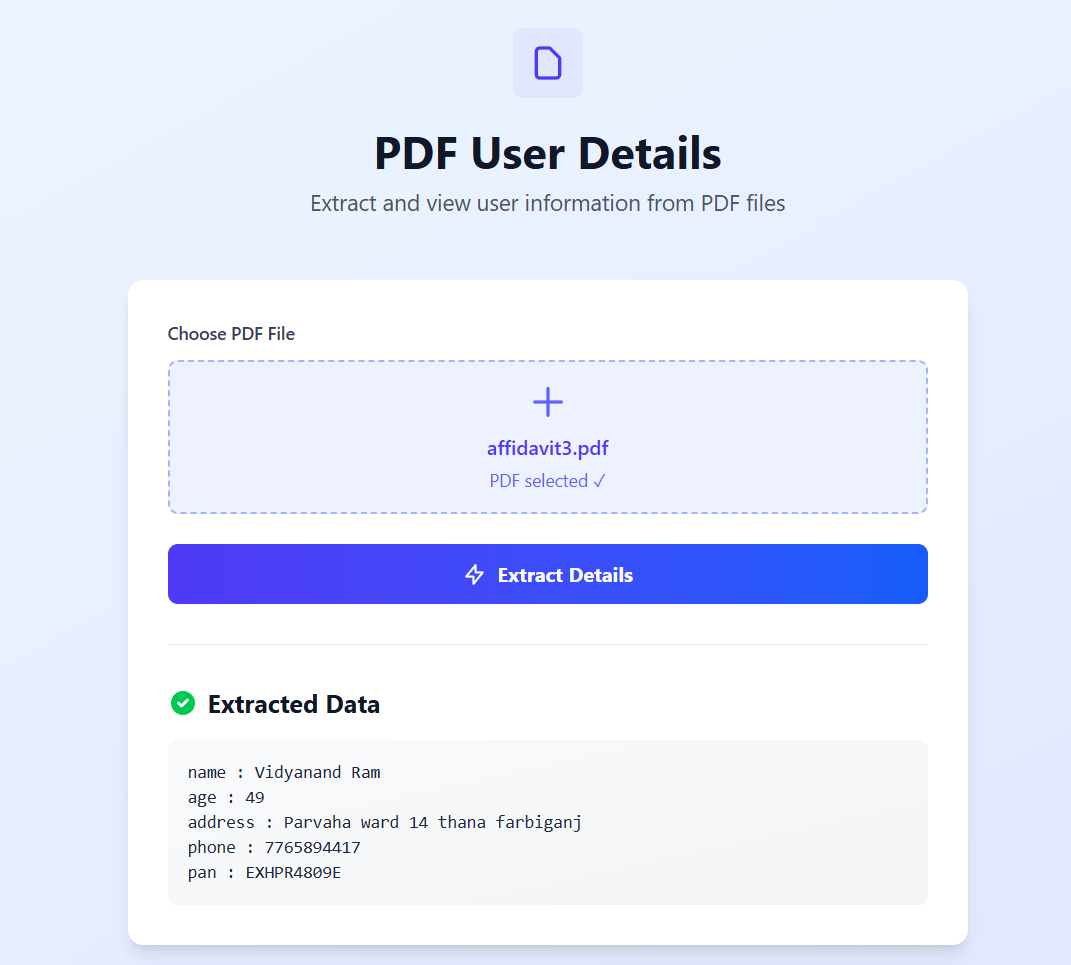
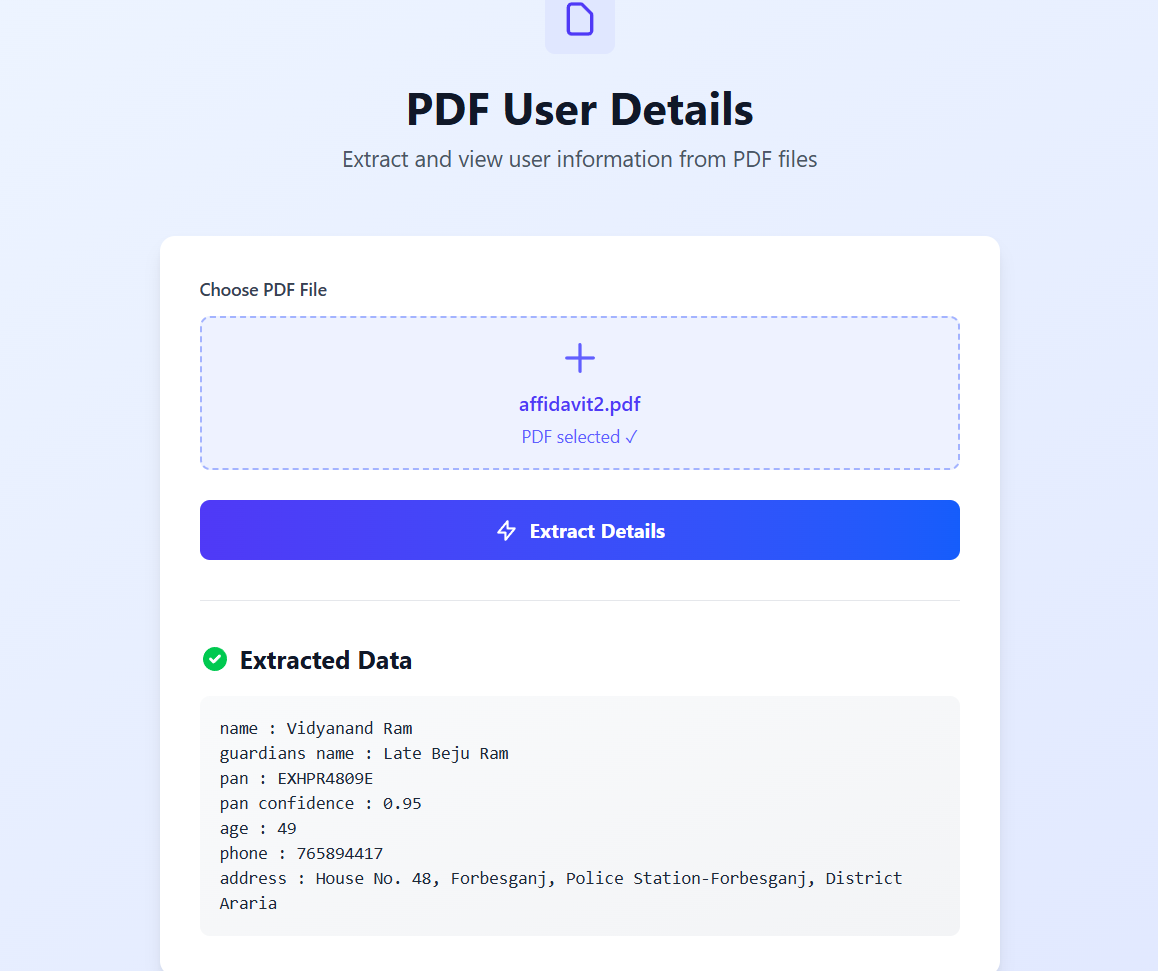
Added more details of the user in the output and DB

Changed region(s): [[0.0924, 0.2798, 0.9244, 1.0], [0.2773, 0.0, 0.7395, 0.2176], [0.493, 0.342, 0.5238, 0.3731]]

diff --git a/frontend/src/App.jsx b/frontend/src/App.jsx
@@ -4,7 +4,7 @@ function App() {
   const [file, setFile] = useState(null);
   const [data, setData] = useState(null);
   const [loading, setLoading] = useState(false);
-  const displayOrder = ["name", "age", "address", "phone", "pan"];
+  const displayOrder = ["name", "guardians_name", "pan", "pan_confidence", "age", "phone", "address"];
 
   const uploadPdf = async () => {
     if (!file) return alert("Upload a PDF");

diff --git a/backend/functions.py b/backend/functions.py
@@ -97,13 +97,15 @@ def get_user_details(pages, page_index):
     Extract ONLY the following user details if present:
     1. Full Name
     3. Address (full)
-    4. Phone Number (if mentioned)
+    4. Father's / Spouse Name
+    5. Phone Number (if mentioned)
     6. Age (if mentioned)
     
     Convert the details from hindi to english if they are in hindi.
     Return STRICT JSON only:
     {
       "name": "...",
+      "guardians_name": "...",
       "age": "...",
       "address": "...",
       "phone": "..."
@@ -128,16 +130,39 @@ def get_pan_number_details(pages, pan_page_index, user_data):
     pan_page_image = pages[pan_page_index]
 
     pan_prompt = """
-    This is a PAN-related page from an Indian affidavit.
+    You are given an image of an Indian affidavit document that may contain a PAN card.
 
-    Extract ONLY the PAN card number.
-    PAN format: AAAAA9999A
+    Your task is to extract:
+    1. The PAN card number
+    2. A confidence score for the extracted PAN
 
-    Rules:
-    - PAN is usually below headings like:
-      "पीएएन", "स्थायी लेखा", "स्थायी लेखा संख्या"
-    - Return ONLY the PAN string
-    - If not visible, return null
+    PAN Format:
+    - Exactly 10 characters
+    - Pattern: AAAAA9999A (5 uppercase letters, 4 digits, 1 uppercase letter)
+
+    Extraction Rules:
+    - Look for PAN under or near headings such as:
+      "पीएएन", "स्थायी लेखा", "स्थायी लेखा संख्या", "Permanent Account Number", "PAN"
+    - Extract ONLY the PAN number visible in the image
+    - Do NOT guess or infer missing characters
+    - If a valid PAN is not clearly visible, return null for the PAN
+
+    Output Format (STRICT):
+    Return ONLY a valid JSON object in the following format:
+
+    {
+      "pan": "FAIPS5217L",
+      "confidence_score": 0.92
+    }
+
+    Confidence Score Guidelines:
+    - Value must be between 0 and 1
+    - High confidence (0.85–1.0): PAN is clearly readable and fully visible
+    - Medium confidence (0.6–0.84): PAN is visible but slightly unclear
+    - Low confidence (0.3–0.59): PAN is partially visible or noisy
+    - If PAN is null, confidence_score must be 0.0
+
+    Do NOT include any explanation or additional text.
     """
 
     logger.info("Extracting PAN from PAN page...")
@@ -148,25 +173,35 @@ def get_pan_number_details(pages, pan_page_index, user_data):
         return user_data
     logger.info("PAN Raw Result:")
     logger.info(pan_response.text)
-    chq_pan_number(pan_response.text, user_data)
+    pan_result = safe_parse_json(pan_response.text)
+    chq_pan_number(pan_result, user_data)
     return user_data
     
     
-def chq_pan_number(pan_number, user_data):
-    pan_text = re.sub(r"```json|```", "", pan_number, flags=re.IGNORECASE).strip()
+def chq_pan_number(pan_details: dict, user_data: dict):
+    if not isinstance(pan_details, dict):
+        user_data["pan"] = None
+        user_data["pan_confidence"] = 0.0
+        return
 
-    if pan_text.lower() == "null":
+    pan_text = str(pan_details.get("pan", "")).strip()
+    
+    try:
+        confidence = float(pan_details.get("confidence_score", 0.0))
+    except (ValueError, TypeError):
+        confidence = 0.0
+
+    if not pan_text or pan_text.lower() == "null":
         pan_value = None
     else:
-        pan_value = pan_text.strip('"').strip()
+        pan_value = pan_text.strip('"').upper()
 
-    def is_valid_pan(pan):
-        return bool(re.fullmatch(r"[A-Z]{5}[0-9]{4}[A-Z]", pan or ""))
-
-    if not is_valid_pan(pan_value):
+    if not re.fullmatch(r"[A-Z]{5}[0-9]{4}[A-Z]", pan_value or ""):
         pan_value = None
+        confidence = 0.0
 
     user_data["pan"] = pan_value
+    user_data["pan_confidence"] = confidence
 
 
 

diff --git a/backend/app.py b/backend/app.py
@@ -35,6 +35,8 @@ def init_db():
             age INT,
             phone VARCHAR(20),
             pan VARCHAR(20),
+            pan_confidence FLOAT,
+            guardians_name VARCHAR(255),
             address TEXT,
             created_at TIMESTAMP DEFAULT CURRENT_TIMESTAMP
         )
@@ -63,16 +65,18 @@ def extract():
         db = get_db()
         cursor = db.cursor()
         query = """
-            INSERT INTO extracted_data (name, age, phone, pan, address)
-            VALUES (%s, %s, %s, %s, %s)
+            INSERT INTO extracted_data (name, age, phone, pan, pan_confidence, guardians_name, address)
+            VALUES (%s, %s, %s, %s, %s, %s, %s)
             """
 
         values = (
-            data["name"],
-            data["age"],
-            str(data["phone"]),
-            data["pan"],
-            data["address"]
+            data.get("name"),
+            data.get("age"),
+            str(data["phone"]) if data.get("phone") else None,
+            data.get("pan"),
+            float(data.get("pan_confidence", 0.0)),
+            data.get("guardians_name"),
+            data.get("address")
         )
 
         try:

diff --git a/backend/readme.md b/backend/readme.md
@@ -142,13 +142,15 @@ http://localhost:8000
 ### Table: `extracted_data`
 
 ```
-id          INT (PK, auto increment)
-name        VARCHAR(255)
-age         INT
-phone       VARCHAR(20)
-pan         VARCHAR(20)
-address     TEXT
-created_at  TIMESTAMP (auto-generated)
+id               INT (PK, auto increment)
+name             VARCHAR(255)
+age              INT
+phone            VARCHAR(20)
+pan              VARCHAR(20)
+pan_confidence   FLOAT
+guardians_name   VARCHAR(255)
+address          TEXT
+created_at       TIMESTAMP (auto-generated)
 ```
 
 No manual SQL execution required.
@@ -205,11 +207,13 @@ Example response:
 
 ```
 {
-  "name": "Rajeev Ranjan",
-  "age": 26,
-  "phone": "73197029",
-  "pan": "CHCPR9394A",
-  "address": "ग्राम पोस्ट करमा..."
+  "name": "Vidyanand Ram",
+  "age": 49,
+  "phone": "7765894417",
+  "pan": "EXHPR4809E",
+  "pan_confidence": 9.5,
+  "guardians_name": "Late Beju Ram
+  "address": "House No. 48, Forbesganj, Police St.."
 }
 ```
 

diff --git a/frontend/README.md b/frontend/README.md
@@ -142,13 +142,15 @@ http://localhost:8000
 ### Table: `extracted_data`
 
 ```
-id          INT (PK, auto increment)
-name        VARCHAR(255)
-age         INT
-phone       VARCHAR(20)
-pan         VARCHAR(20)
-address     TEXT
-created_at  TIMESTAMP (auto-generated)
+id               INT (PK, auto increment)
+name             VARCHAR(255)
+age              INT
+phone            VARCHAR(20)
+pan              VARCHAR(20)
+pan_confidence   FLOAT
+guardians_name   VARCHAR(255)
+address          TEXT
+created_at       TIMESTAMP (auto-generated)
 ```
 
 No manual SQL execution required.
@@ -205,11 +207,13 @@ Example response:
 
 ```
 {
-  "name": "Rajeev Ranjan",
-  "age": 26,
-  "phone": "73197029",
-  "pan": "CHCPR9394A",
-  "address": "ग्राम पोस्ट करमा..."
+  "name": "Vidyanand Ram",
+  "age": 49,
+  "phone": "7765894417",
+  "pan": "EXHPR4809E",
+  "pan_confidence": 9.5,
+  "guardians_name": "Late Beju Ram
+  "address": "House No. 48, Forbesganj, Police St.."
 }
 ```
 

diff --git a/readme.md b/readme.md
@@ -142,13 +142,15 @@ http://localhost:8000
 ### Table: `extracted_data`
 
 ```
-id          INT (PK, auto increment)
-name        VARCHAR(255)
-age         INT
-phone       VARCHAR(20)
-pan         VARCHAR(20)
-address     TEXT
-created_at  TIMESTAMP (auto-generated)
+id               INT (PK, auto increment)
+name             VARCHAR(255)
+age              INT
+phone            VARCHAR(20)
+pan              VARCHAR(20)
+pan_confidence   FLOAT
+guardians_name   VARCHAR(255)
+address          TEXT
+created_at       TIMESTAMP (auto-generated)
 ```
 
 No manual SQL execution required.
@@ -205,11 +207,13 @@ Example response:
 
 ```
 {
-  "name": "Rajeev Ranjan",
-  "age": 26,
-  "phone": "73197029",
-  "pan": "CHCPR9394A",
-  "address": "ग्राम पोस्ट करमा..."
+  "name": "Vidyanand Ram",
+  "age": 49,
+  "phone": "7765894417",
+  "pan": "EXHPR4809E",
+  "pan_confidence": 9.5,
+  "guardians_name": "Late Beju Ram
+  "address": "House No. 48, Forbesganj, Police St.."
 }
 ```
 
